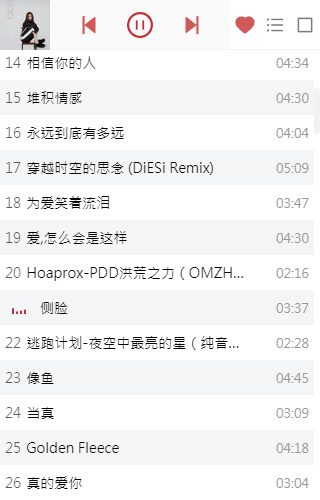
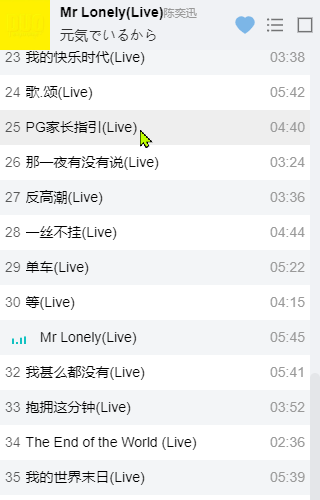
update readme

diff --git a/README.md b/README.md
@@ -31,12 +31,16 @@
 </p> -->
 
 ## 特点
-* 拖拽播放
-* 桌面歌词与可视化
+* 歌词滚动，翻译切换
+![player](https://github.com/LaiTaoGDUT/xiang-su-music/blob/master/screenshot/player.png)
+* 桌面歌词与音乐可视化
+![desktop](https://github.com/LaiTaoGDUT/xiang-su-music/blob/master/screenshot/desktopLyric.png)
 * mini模式
-* 自定义托盘右键菜单
+![mini](https://github.com/LaiTaoGDUT/xiang-su-music/blob/master/screenshot/mini.png)
+![mini2](https://github.com/LaiTaoGDUT/xiang-su-music/blob/master/screenshot/mini2.png)
+* 托盘菜单
+![tray](https://github.com/LaiTaoGDUT/xiang-su-music/blob/master/screenshot/tray.png)
 * 任务栏缩略图，歌曲操作
-* 音频可视化
 * 自动/手动检查更新
 * Nedb数据库持久化
 * 自定义安装路径，安装界面美化
@@ -57,7 +61,9 @@
 点击[下载应用](https://github.com/xiaozhu188/electron-vue-cloud-music/releases/latest)。 -->
 
 > 项目当前依赖[NeteaseCloudMusicApi](https://github.com/Binaryify/NeteaseCloudMusicApi),感谢NeteaseCloudMusicApi的作者。
+
 > 项目当前依赖[QQMusicApi](https://github.com/jsososo/QQMusicApi),感谢QQMusicApi的作者。
+
 >开发灵感来自[electron-vue-cloud-music](https://github.com/xiaozhu188/electron-vue-cloud-music),感谢electron-vue-cloud-music的作者。
 
 <!-- ## 部分界面预览
@@ -73,7 +79,7 @@
 
 ![video](https://github.com/xiaozhu188/electron-vue-cloud-music/blob/master/screenshot/video.png)
 
-![player](https://github.com/xiaozhu188/electron-vue-cloud-music/blob/master/screenshot/player.png)
+
 
 ![playlist](https://github.com/xiaozhu188/electron-vue-cloud-music/blob/master/screenshot/playlist.png)
 
